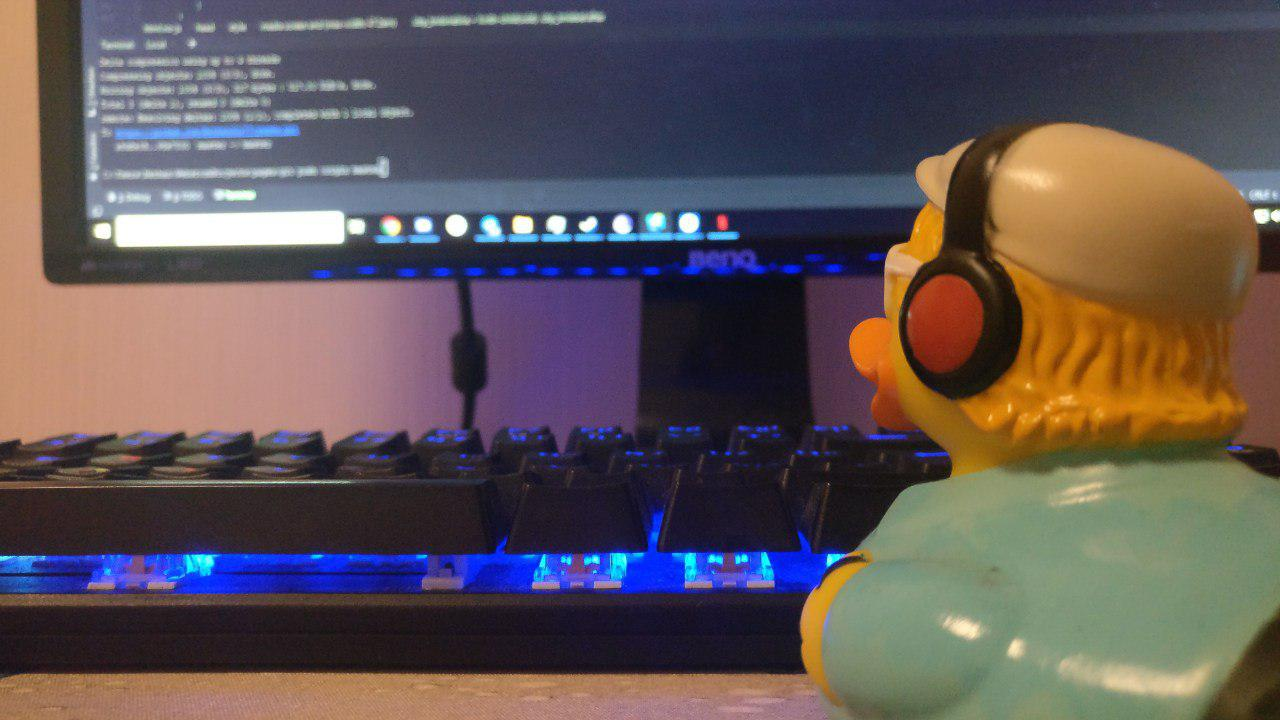
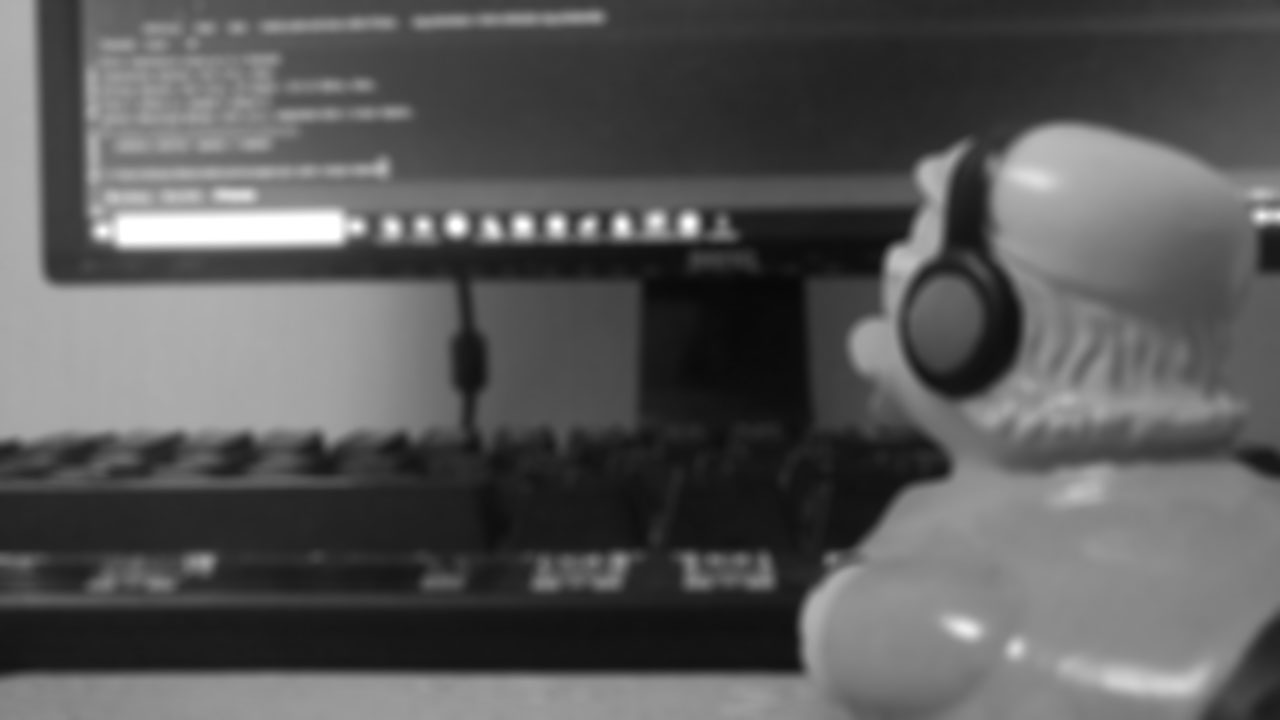
index.html

diff --git a/index.html b/index.html
@@ -1,19 +1,22 @@
-
-
 <html lang="en" class="no-js">
 <head>
-    <meta charset="UTF-8" />
+    <meta charset="UTF-8"/>
     <meta http-equiv="X-UA-Compatible" content="IE=edge,chrome=1">
     <meta name="viewport" content="width=device-width, initial-scale=1.0">
     <title>Kokorev CV</title>
     <style>
 
-        *, *:after, *:before { -webkit-box-sizing: border-box; -moz-box-sizing: border-box; box-sizing: border-box; }
-        body, html { font-size: 100%; padding: 0; margin: 0;}
+        *, *:after, *:before {
+            -webkit-box-sizing: border-box;
+            -moz-box-sizing: border-box;
+            box-sizing: border-box;
+        }
 
-        /* Clearfix hack by Nicolas Gallagher: http://nicolasgallagher.com/micro-clearfix-hack/ */
-        .clearfix:before, .clearfix:after { content: " "; display: table; }
-        .clearfix:after { clear: both; }
+        body, html {
+            font-size: 100%;
+            padding: 0;
+            margin: 0;
+        }
 
         body {
             font-family: 'Lato', Calibri, Arial, sans-serif;
@@ -58,6 +61,8 @@
             text-transform: uppercase;
             letter-spacing: 0.5em;
             padding: 0 0 0.6em 0.1em;
+            text-align: right;
+
         }
 
         .container > header > span span:after {
@@ -123,46 +128,9 @@
             background: #47a3da;
         }
 
-        .bp-icon:after {
-            font-family: 'bpicons';
-            speak: none;
-            font-style: normal;
-            font-weight: normal;
-            font-variant: normal;
-            text-transform: none;
-            text-align: left;
-            color: #47a3da;
-            -webkit-font-smoothing: antialiased;
-        }
-
-        .container > header nav .bp-icon:after {
-            position: absolute;
-            top: 0;
-            left: 0;
-            width: 100%;
-            height: 100%;
-            line-height: 2;
-            text-indent: 0;
-        }
 
         .container > header nav a:hover:after {
             color: #fff;
-        }
-
-        .bp-icon-next:after {
-            content: "\e000";
-        }
-        .bp-icon-drop:after {
-            content: "\e001";
-        }
-        .bp-icon-archive:after {
-            content: "\e002";
-        }
-        .bp-icon-about:after {
-            content: "\e003";
-        }
-        .bp-icon-prev:after {
-            content: "\e004";
         }
 
         @media screen and (max-width: 55em) {
@@ -184,16 +152,18 @@
             .container > header > span {
                 text-indent: 30px;
             }
-        }@font-face {
+        }
+
+        @font-face {
             font-family: 'ecoico';
-            src:url('../fonts/timelineicons/ecoico.eot');
-            src:url('../fonts/timelineicons/ecoico.eot?#iefix') format('embedded-opentype'),
+            src: url('../fonts/timelineicons/ecoico.eot');
+            src: url('../fonts/timelineicons/ecoico.eot?#iefix') format('embedded-opentype'),
             url('../fonts/timelineicons/ecoico.woff') format('woff'),
             url('../fonts/timelineicons/ecoico.ttf') format('truetype'),
             url('../fonts/timelineicons/ecoico.svg#ecoico') format('svg');
             font-weight: normal;
             font-style: normal;
-        } /* Made with https://icomoon.io/ */
+        }
 
         .cbp_tmtimeline {
             margin: 30px 0 0 0;
@@ -232,17 +202,18 @@
         }
 
         .cbp_tmtimeline > li .cbp_tmtime span:first-child {
-            font-size: 0.9em;
+            font-size: 1.2em;
             color: #bdd0db;
         }
 
         .cbp_tmtimeline > li .cbp_tmtime span:last-child {
-            font-size: 2.9em;
+            font-size: 1.9em;
             color: #3594cb;
         }
 
         .cbp_tmtimeline > li:nth-child(odd) .cbp_tmtime span:last-child {
             color: #6cbfee;
+
         }
 
         /* Right content */
@@ -256,16 +227,23 @@
             line-height: 1.4;
             position: relative;
             border-radius: 5px;
+            text-align: left;
+
+
         }
 
         .cbp_tmtimeline > li:nth-child(odd) .cbp_tmlabel {
             background: #6cbfee;
+            text-align: left;
+
         }
 
         .cbp_tmtimeline > li .cbp_tmlabel h2 {
             margin-top: 0px;
             padding: 0 0 10px 0;
-            border-bottom: 1px solid rgba(255,255,255,0.4);
+            border-bottom: 1px solid rgba(255, 255, 255, 0.4);
+            text-align: center;
+
         }
 
         /* The triangle */
@@ -280,6 +258,7 @@
             border-right-color: #3594cb;
             border-width: 10px;
             top: 10px;
+
         }
 
         .cbp_tmtimeline > li:nth-child(odd) .cbp_tmlabel:after {
@@ -306,7 +285,7 @@
             }
 
             .cbp_tmtimeline > li .cbp_tmtime span {
-                text-align: left;
+                text-align: right;
             }
 
             .cbp_tmtimeline > li .cbp_tmlabel {
@@ -314,7 +293,7 @@
                 padding: 1em;
                 font-weight: 400;
                 font-size: 95%;
-                text-align: left;
+                text-align: right;
             }
 
             .cbp_tmtimeline > li .cbp_tmlabel:after {
@@ -338,23 +317,25 @@
             }
         }
 
+        .tmtimeline-header {
+            text-indent: 20%;
+        }
+
         .header-img {
             width: 100%;
-            height: 700px;
+            height: 500px;
             background: url('images/photo_2019-06-22_22-47-16.jpg');
             background-attachment: fixed;
             background-position: center;
             background-repeat: no-repeat;
             background-size: cover;
-            filter: blur(5px) grayscale(1);
-            -webkit-filter: blur(5px) grayscale(1);
             zoom: 1.2;
             -webkit-transform: scale(1.2);
         }
 
         /* Position text in the middle of the page/image */
         .bg-text {
-            background-color: rgba(108,191,238, 0.4); /* Black w/opacity/see-through */
+            background-color: rgba(108, 191, 238, 0.4); /* Black w/opacity/see-through */
             color: white;
             font-weight: bold;
             border: 3px solid #f1f1f1;
@@ -363,7 +344,7 @@
             left: 50%;
             transform: translate(-50%, -50%);
             z-index: 2;
-            width: 80%;
+            width: 60%;
             padding: 20px;
             text-align: center;
         }
@@ -387,56 +368,104 @@
         <tbody>
         <th colspan="2">
             <ul>
-                <li>Development, support, program implementation of mathematical algorithms of
-                    data from
-                    sensors.
+                <li>Developing processing of large data volumes obtained from telemetry sensors of navigation systems of
+                    guided rockets of the "EARTH-EARTH" class.qweqwwwwwwwqweqeqweqweqweqeqweqw
                 </li>
-                <li>Developed with MATLAB and Implemented into system new, more efficient way of
-                    processing large volumes of telemetry data coming from navigation systems of
-                    guided
-                    rockets of the "EARTH-EARTH" class, obtained from a trial launch
-                </li>
-                <li>Ensured documents were corresponded with the state standards</li>
+                <li>Researching said data</li>
+                <li>Finding and fixing artifacts in navigation system behaviour</li>
             </ul>
         </th>
         <th colspan="5">
             <div class="main">
                 <div class="row">
                     <div class="col-md-8">
+                        <h1 class="tmtimeline-header">My Career So Far</h1>
                         <ul class="cbp_tmtimeline">
                             <li>
-                                <time class="cbp_tmtime"><span>March 2016 - July 2017</span>
-                                    <span>1 year 5 months</span>
+                                <time class="cbp_tmtime"><span>Sep. 2013<br>Jul. 2017</span>
+                                    <span>Bachelor degree</span>
                                 </time>
                                 <div class="cbp_tmlabel">
-                                    <h2>National Research Institute of Instrumentation</h2>
-                                    <h3>Programming engineer</h3>
+                                    <h2>Moscow Aviation Institute <br>(national research university)</h2>
+                                    <h3>Bachelor of Science</h3>
                                     <ul>
-                                        <li>Development, support, program implementation of mathematical algorithms of
-                                            data from
-                                            sensors.
+                                        <li>Technical Systems Control Automation And Artificial Intelligence
                                         </li>
-                                        <li>Developed with MATLAB and Implemented into system new, more efficient way of
-                                            processing large volumes of telemetry data coming from navigation systems of
-                                            guided
-                                            rockets of the "EARTH-EARTH" class, obtained from a trial launch
-                                        </li>
-                                        <li>Ensured documents were corresponded with the state standards</li>
                                     </ul>
                                 </div>
                             </li>
                             <li>
-                                <time class="cbp_tmtime"><span>February 2017 - June 2017</span>
-                                    <span>5 months</span>
+                                <time class="cbp_tmtime"><span>Mar. 2016<br>Jul. 2017</span>
+                                    <span>1 yr. 5 mos.</span>
+                                </time>
+                                <div class="cbp_tmlabel">
+                                    <h2>National Research Institute of Instrumentation
+                                    <br>(research facility)</h2>
+                                    <h3>Programming engineer</h3>
+                                    <ul>
+                                        <li>Developing processing of large data volumes obtained from telemetry sensors of navigation systems of
+                                            guided rockets of the "EARTH-EARTH" class.
+                                        </li>
+                                        <li>Researching said data</li>
+                                        <li>Finding and fixing artifacts in navigation system behaviour</li>
+                                    </ul>
+                                </div>
+                            </li>
+                            <li>
+                                <time class="cbp_tmtime"><span>Feb. 2017<br>Jun. 2017</span>
+                                    <span>5 mos.</span>
                                 </time>
 
                                 <div class="cbp_tmlabel">
                                     <h2>Moscow Aviation Institute <br>(national research university)</h2>
-                                    <h3>Graduation Design</h3>
-                                    <p>Developed and implemented (MATLAB\Mathcad) a complex of algorithms and software
-                                        for the study of dynamic control systems, which simplified teaching, coursework,
-                                        laboratory work, research and design work in the direction - Automatic Control
-                                        Theory</p>
+                                    <h3>Graduation Work</h3>
+                                    <ul>
+                                        <li>Developed and implemented software
+                                            for a study of a dynamic control systems, purposed to simplify research, laboratory work, teaching,
+                                            and design work in the field of
+                                            Automatic Control Theory (MATLAB\Mathcad)
+                                        </li>
+                                    </ul>
+                                </div>
+                            </li>
+                            <li>
+                                <time class="cbp_tmtime"><span>Jul. 2017<br>Jul. 2018</span>
+                                    <span>1 year</span>
+                                </time>
+
+                                <div class="cbp_tmlabel">
+                                    <h2>Some company</h2>
+                                    <h3>NDA is to be lifted due 2023</h3>
+                                </div>
+                            </li>
+                            <li>
+                                <time class="cbp_tmtime"><span>Dec. 2018<br>Present</span>
+                                    <span>For a while now</span>
+                                </time>
+
+                                <div class="cbp_tmlabel">
+                                    <h2>SRG Group</h2>
+                                    <h3>Fullstack Developer <br>
+                                        Workspace for real estate appraisers and bank employees<br><br>
+                                        Front-end part:</h3>
+                                    <ul>
+                                        <li>Fields, rules for them and validation of given input</li>
+                                        <li>Focusing very much on minimizing room for mistakes</li>
+                                        <li>Buttons, links, tables and other typical HTML stuff</li>
+                                        <li>Field suggestions, dynamic selects, datepickers</li>
+                                        <li>All sorts of QOL improvements</li>
+                                        <li>UXing when blanks in specification allow me to</li>
+                                    </ul>
+                                    <h3>Back-end part:</h3>
+                                    <ul>
+                                        <li>Registries, making them, optimising fetching and so on</li>
+                                        <li>Working around MVC architecture</li>
+                                        <li>Serializing and deserializing entities with relational, document-oriented and object oriented databases</li>
+                                        <li>Changing the flow to match business logic</li>
+                                        <li>Cost optimizing algorithms</li>
+                                        <li>Refactoring both my and colleague's code, fixing bugs consequentially</li>
+                                        <li>Overseeing and helping juniors, participating in code review and architectural discussions</li>
+                                    </ul>
                                 </div>
                             </li>
                         </ul>
